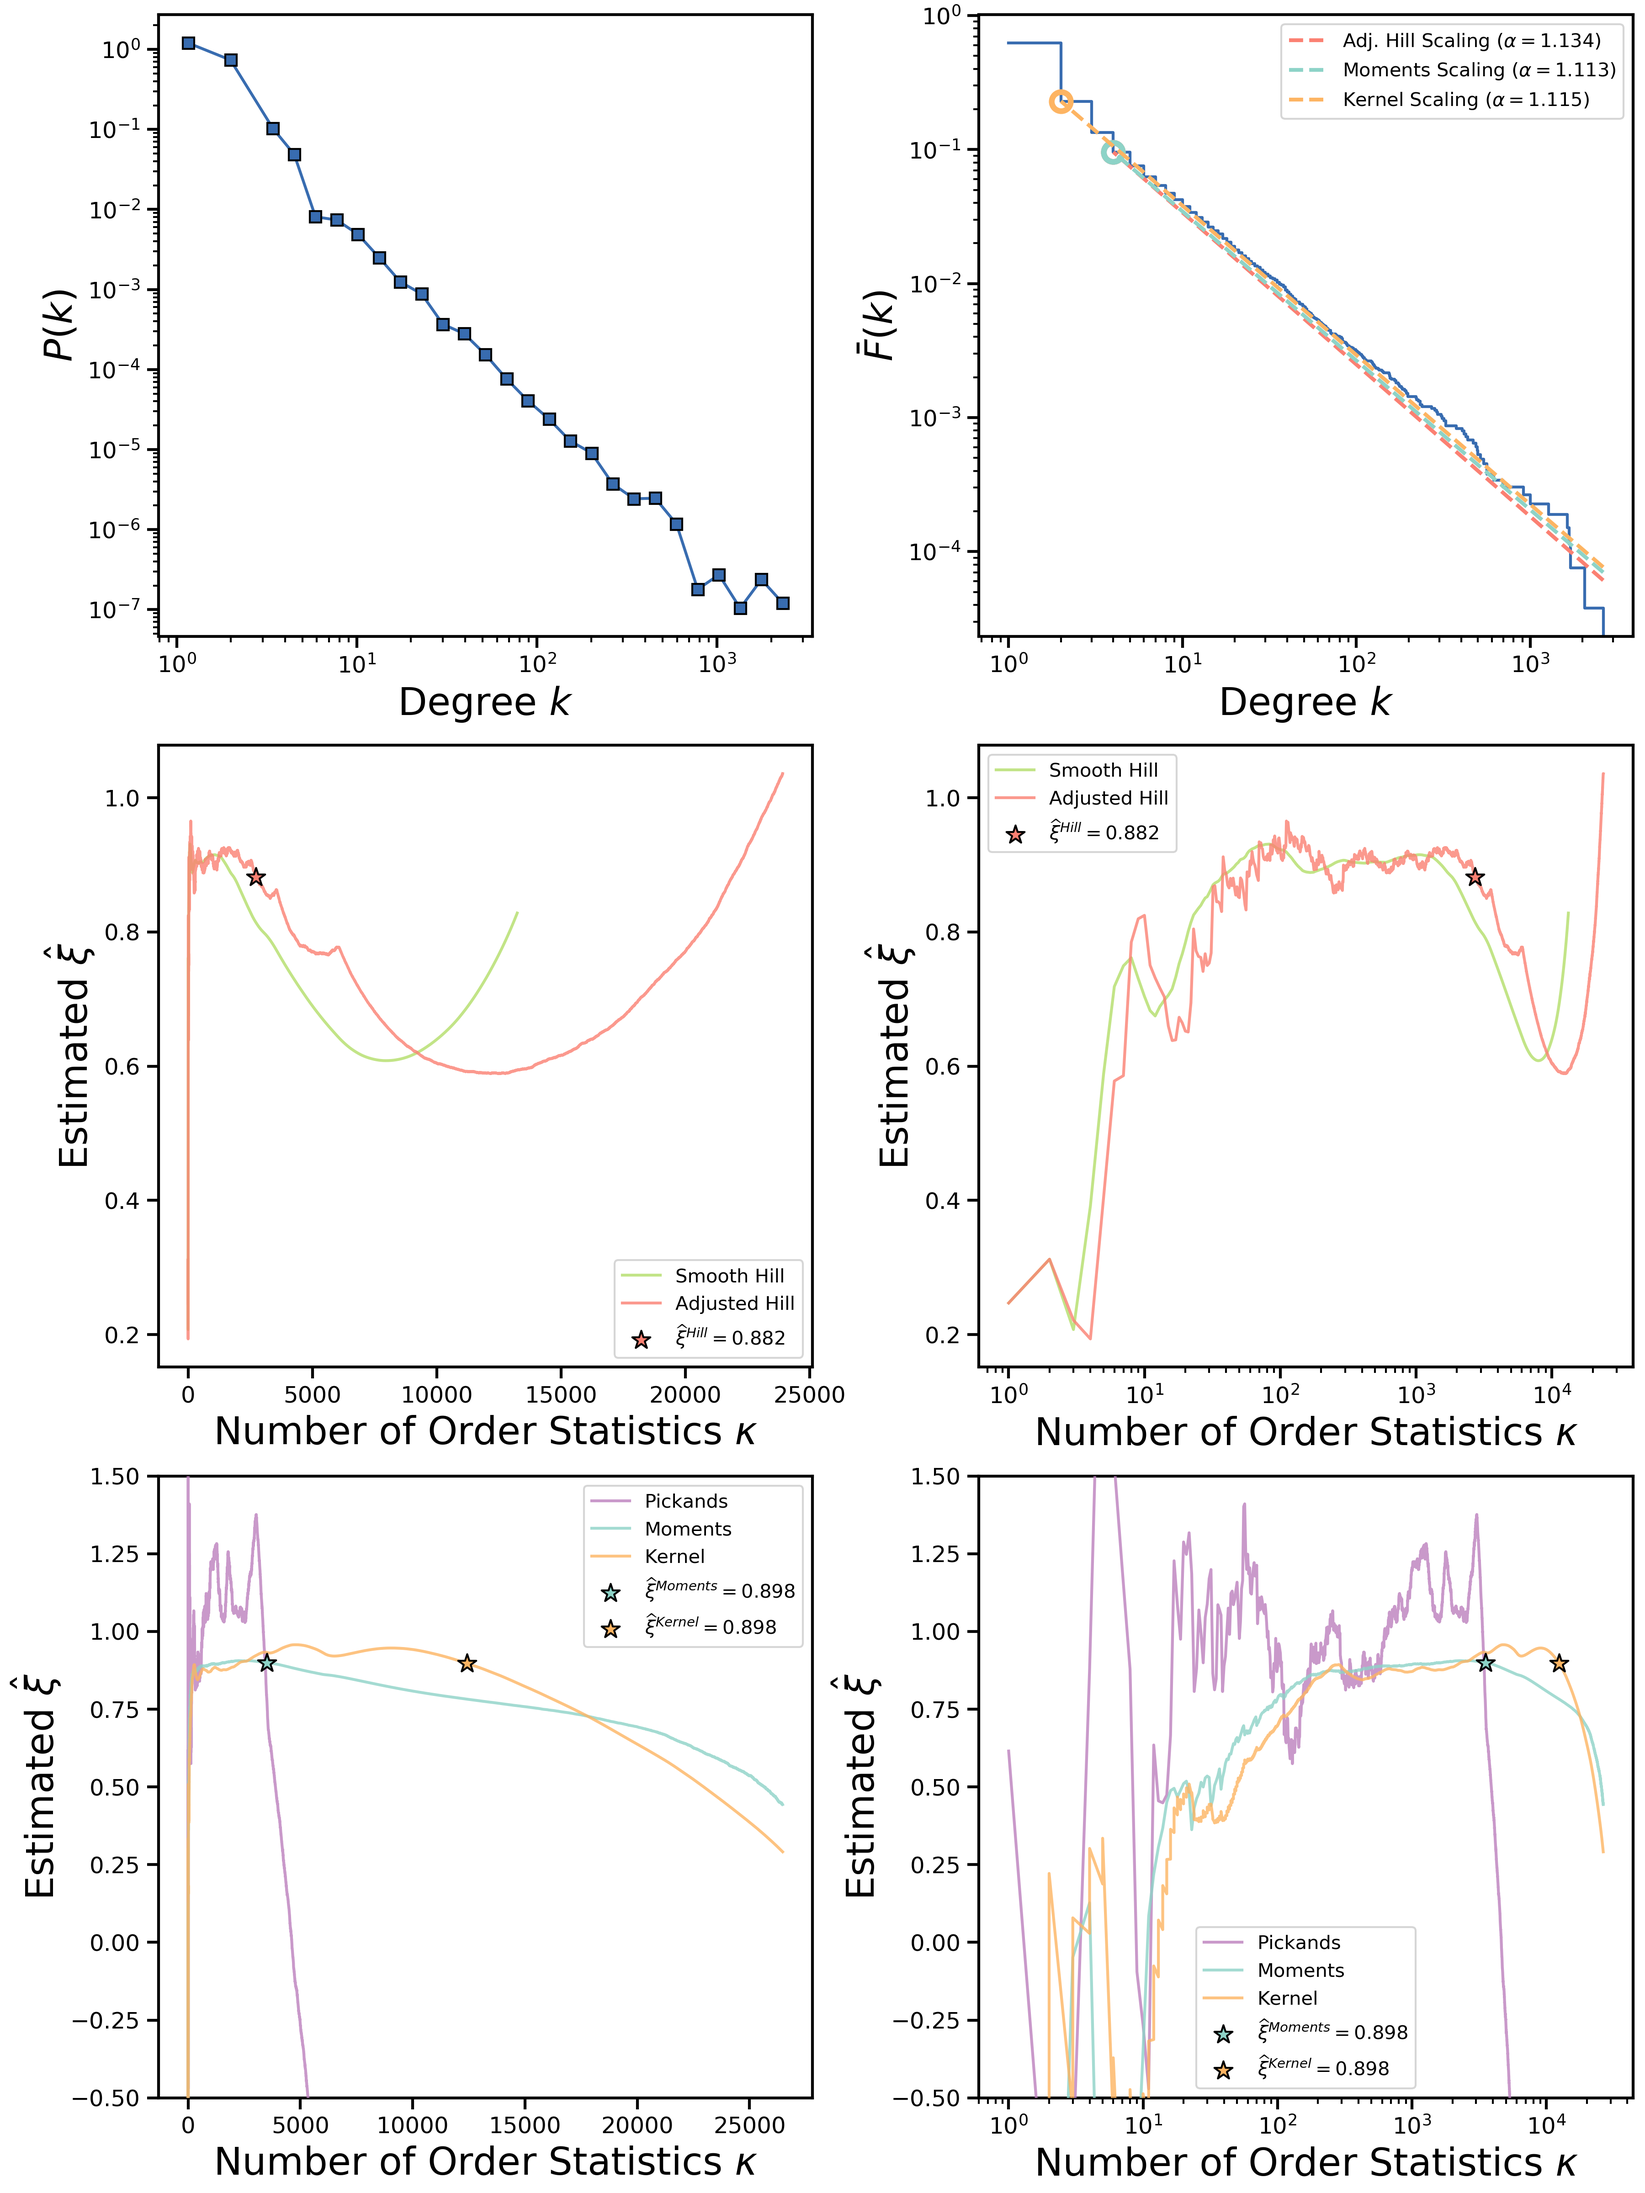
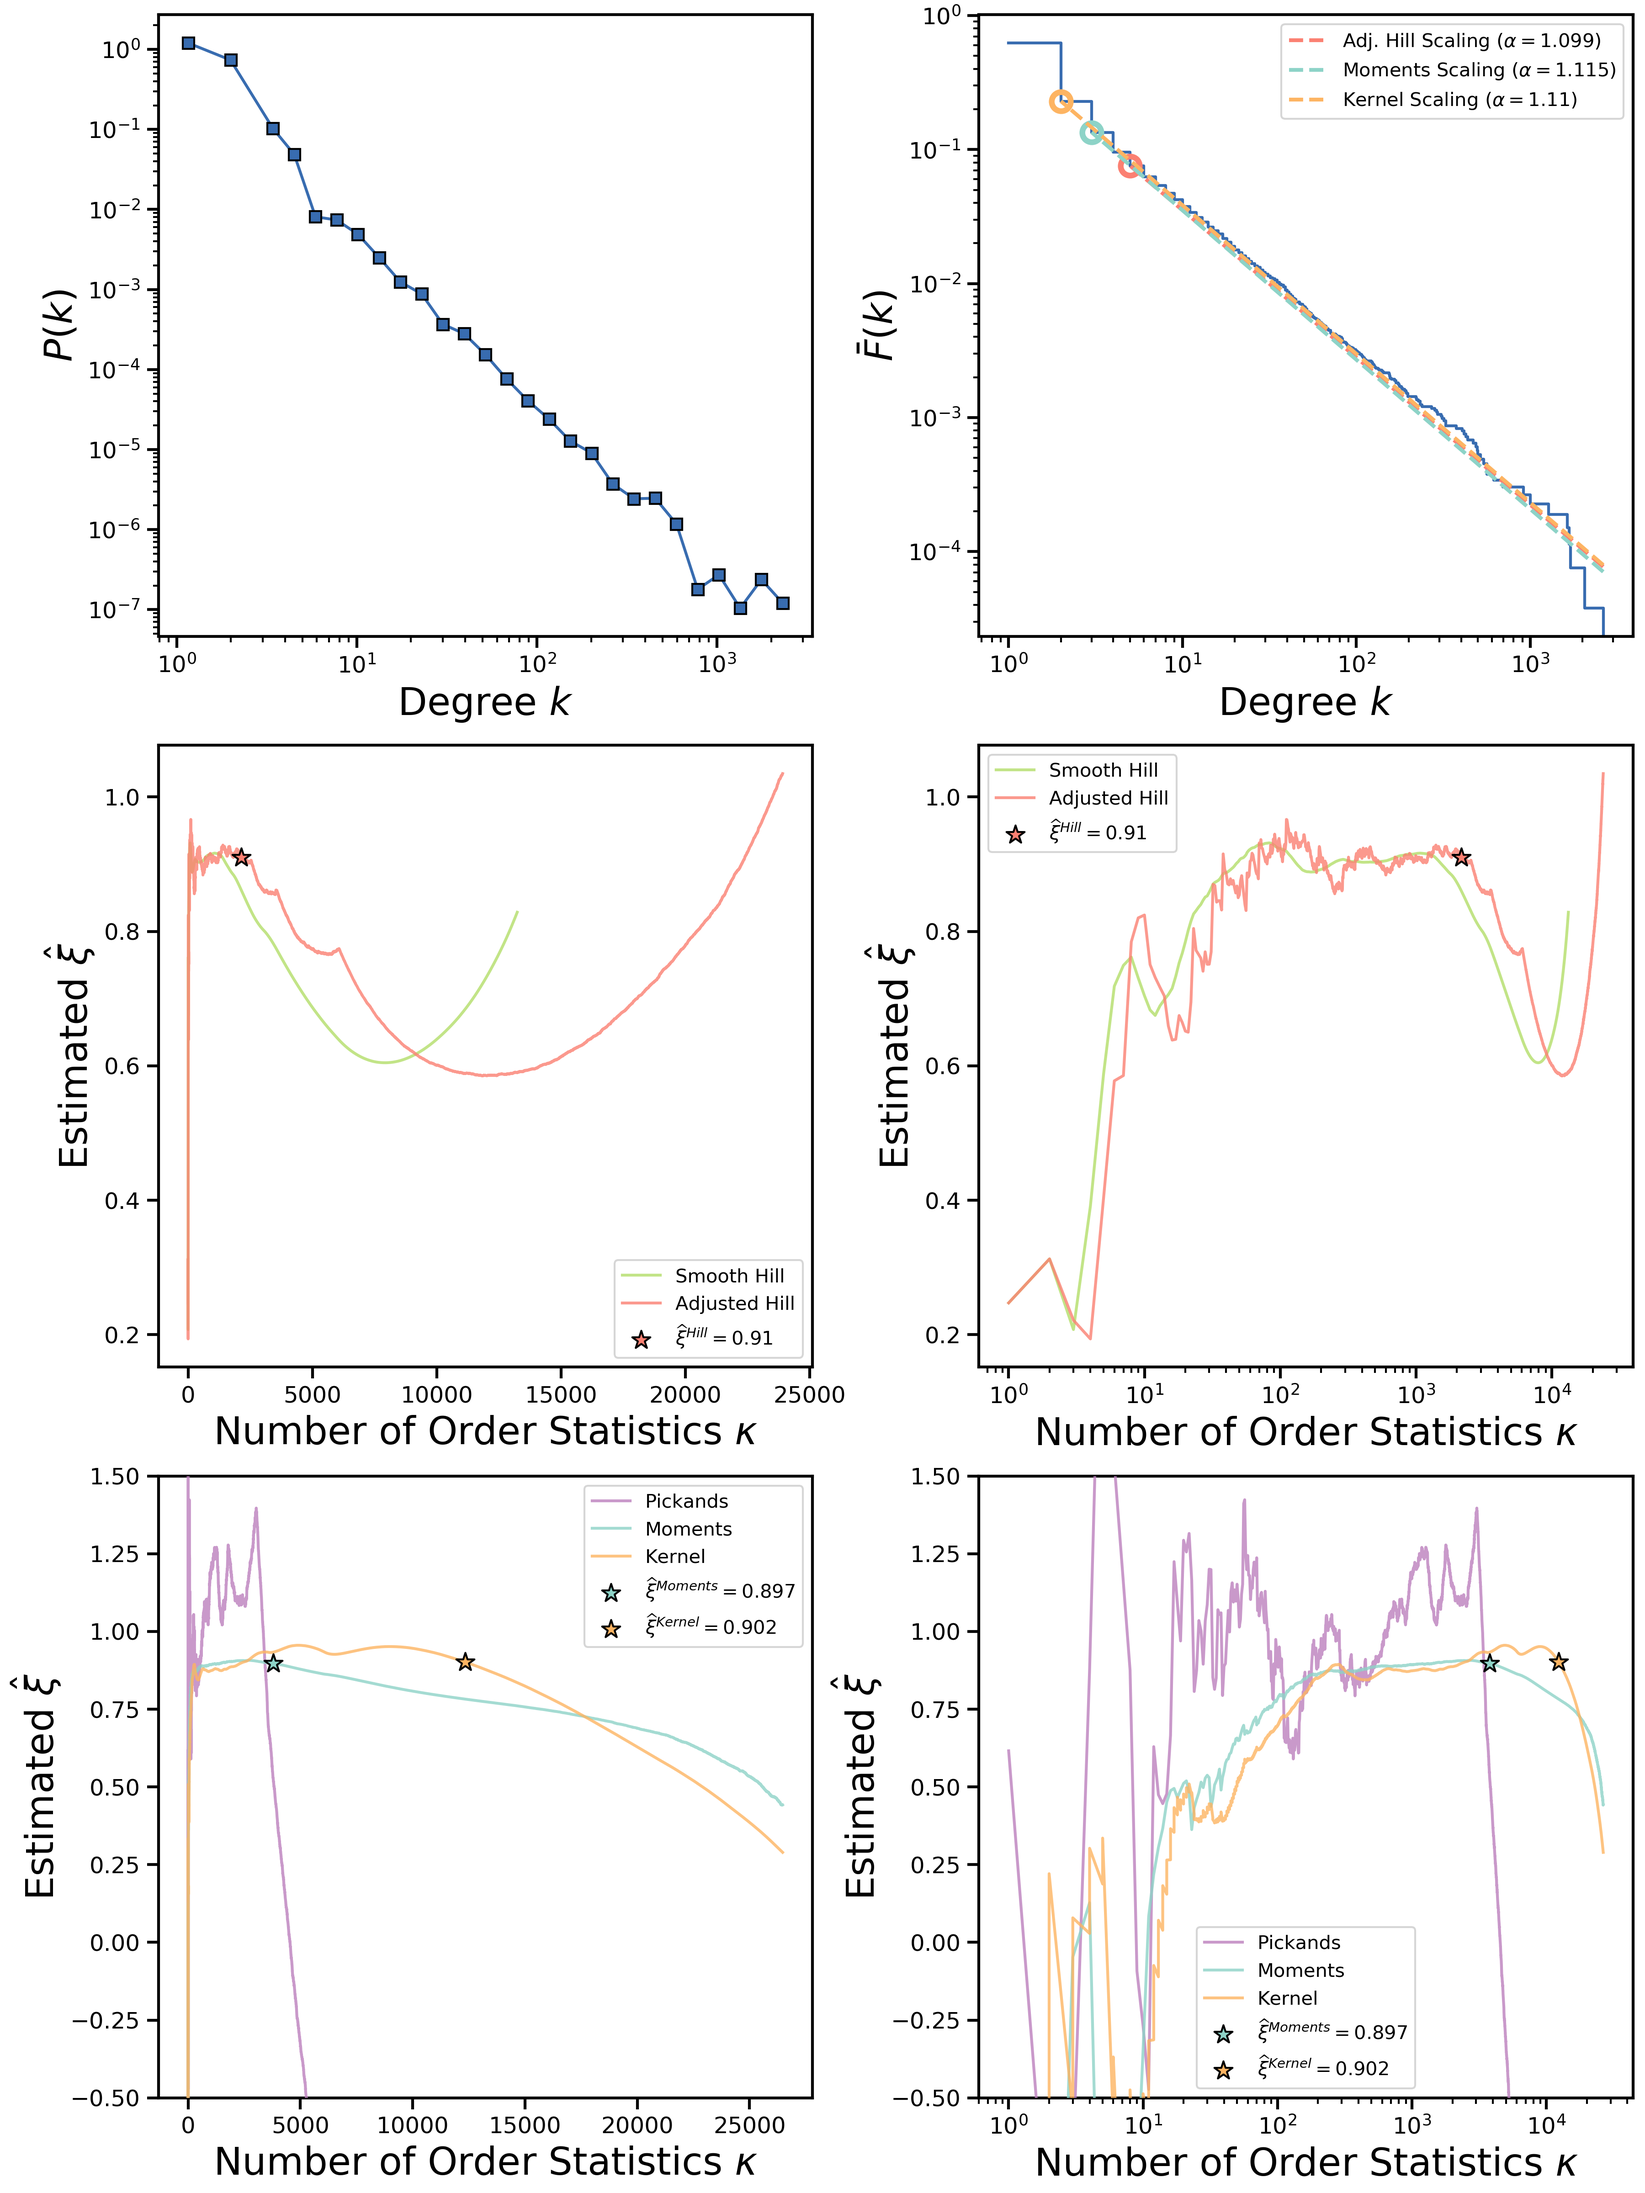
further cleanups

diff --git a/Python3/tail-estimation.py b/Python3/tail-estimation.py
@@ -282,14 +282,14 @@ def hill_dbs(ordered_data, t_bootstrap = 0.5,
     '''
     
     # this constant is provided in Qi's paper
-    rho = (2.*(np.log(n1)/np.log(k1) - 1.))**(np.log(k1)/np.log(n1) - 1.)
+    rho = (1. - (2*(np.log(k1) - np.log(n1))/(np.log(k1))))**(np.log(k1)/np.log(n1) - 1.)
     
     k_star = (k1*k1/float(k2)) * rho
     k_star = int(np.round(k_star))
     
     # enforce k_star to pick 2nd value (rare cases of extreme cutoffs)
     if k_star == 0:
-        k_star = 1
+        k_star = 2
     if int(k_star) >= len(ordered_data):
         print("WARNING: estimated threshold k is larger than the size of data")
         k_star = len(ordered_data)-1

diff --git a/Python2/tail-estimation.py b/Python2/tail-estimation.py
@@ -282,14 +282,14 @@ def hill_dbs(ordered_data, t_bootstrap = 0.5,
     '''
     
     # this constant is provided in Qi's paper
-    rho = (2.*(np.log(n1)/np.log(k1) - 1.))**(np.log(k1)/np.log(n1) - 1.)
+    rho = (1. - (2*(np.log(k1) - np.log(n1))/(np.log(k1))))**(np.log(k1)/np.log(n1) - 1.)
     
     k_star = (k1*k1/float(k2)) * rho
     k_star = int(np.round(k_star))
     
     # enforce k_star to pick 2nd value (rare cases of extreme cutoffs)
     if k_star == 0:
-        k_star = 1
+        k_star = 2
     if int(k_star) >= len(ordered_data):
         print "WARNING: estimated threshold k is larger than the size of data"
         k_star = len(ordered_data)-1

diff --git a/README.md b/README.md
@@ -40,11 +40,12 @@ python tail-estimation.py ../Examples/CAIDA_KONECT.dat ./CAIDA_plots.pdf
 
 This will produce a collection of plots saved in the current directory under the "CAIDA_plots.pdf" name as well as some STDOUT messages reporting estimated tail indices. Most users would be interested in just one-number tail index estimates according to three estimators we have implemented so far. They are reported to the STDOUT in the following form (for the CAIDA network example):
 ```
-Adjusted Hill estimated gamma: 2.13430140435
+Adjusted Hill estimated gamma: 2.09917807967
 **********
-Moments estimated gamma: 2.11322173987
+Moments estimated gamma: 2.11472695937
 **********
-Kernel-type estimated gamma: 2.11480741617
+Kernel-type estimated gamma: 2.10970003848
+**********
 ```
 An example of plots generated for the CAIDA network is given below:
 ![CAIDA Output](https://raw.githubusercontent.com/ivanvoitalov/tail-estimation/master/Figures/CAIDA_output.png)
@@ -71,11 +72,11 @@ In the simplest example above, three tail index estimators (Hill, moments and ke
 
 Let us consider an example of in-degree sequence generated from [Libimseti](http://konect.uni-koblenz.de/networks/libimseti) dating website network that is also available under the _Examples_ directory (**Libimseti_in_KONECT.dat** file). Running the script on this sequence produces the following estimates for the distribution exponent:
 ```
-Adjusted Hill estimated gamma: 3.77713046384
+Adjusted Hill estimated gamma: 4.12161848681
 **********
-Moments estimated gamma: 2.56926691826
+Moments estimated gamma: 2.56777932512
 **********
-Kernel-type estimated gamma: 2.66658217789
+Kernel-type estimated gamma: 2.6683297158
 **********
 ```
 
@@ -105,11 +106,11 @@ Fortunately, [it was shown](https://repository.tudelft.nl/islandora/object/uuid:
 
 It is fairly easy to use our code with non-network data, i.e., non-integer-valued data sequences. Simply convert your data to the required input format and switch off the noise by using `--noise 0` flag. We demonstrate this by generating a sequence of Pareto-distributed values with tail exponent <a href="https://www.codecogs.com/eqnedit.php?latex=\gamma&space;=&space;2.5" target="_blank"><img src="https://latex.codecogs.com/gif.latex?\gamma&space;=&space;2.5" title="\gamma = 2.5" /></a>. The data sequence converted to the format used by the script can be found under the _Examples_ directory (**Pareto.dat** file). Estimated tail exponents are very close to the true value:
 ```
-Adjusted Hill estimated gamma: 2.49927490273
+Adjusted Hill estimated gamma: 2.49695935515
 **********
-Moments estimated gamma: 2.53592254037
+Moments estimated gamma: 2.53632638064
 **********
-Kernel-type estimated gamma: 2.56952953349
+Kernel-type estimated gamma: 2.57361570662
 **********
 ```
 The output plots look as follows for this dataset:
